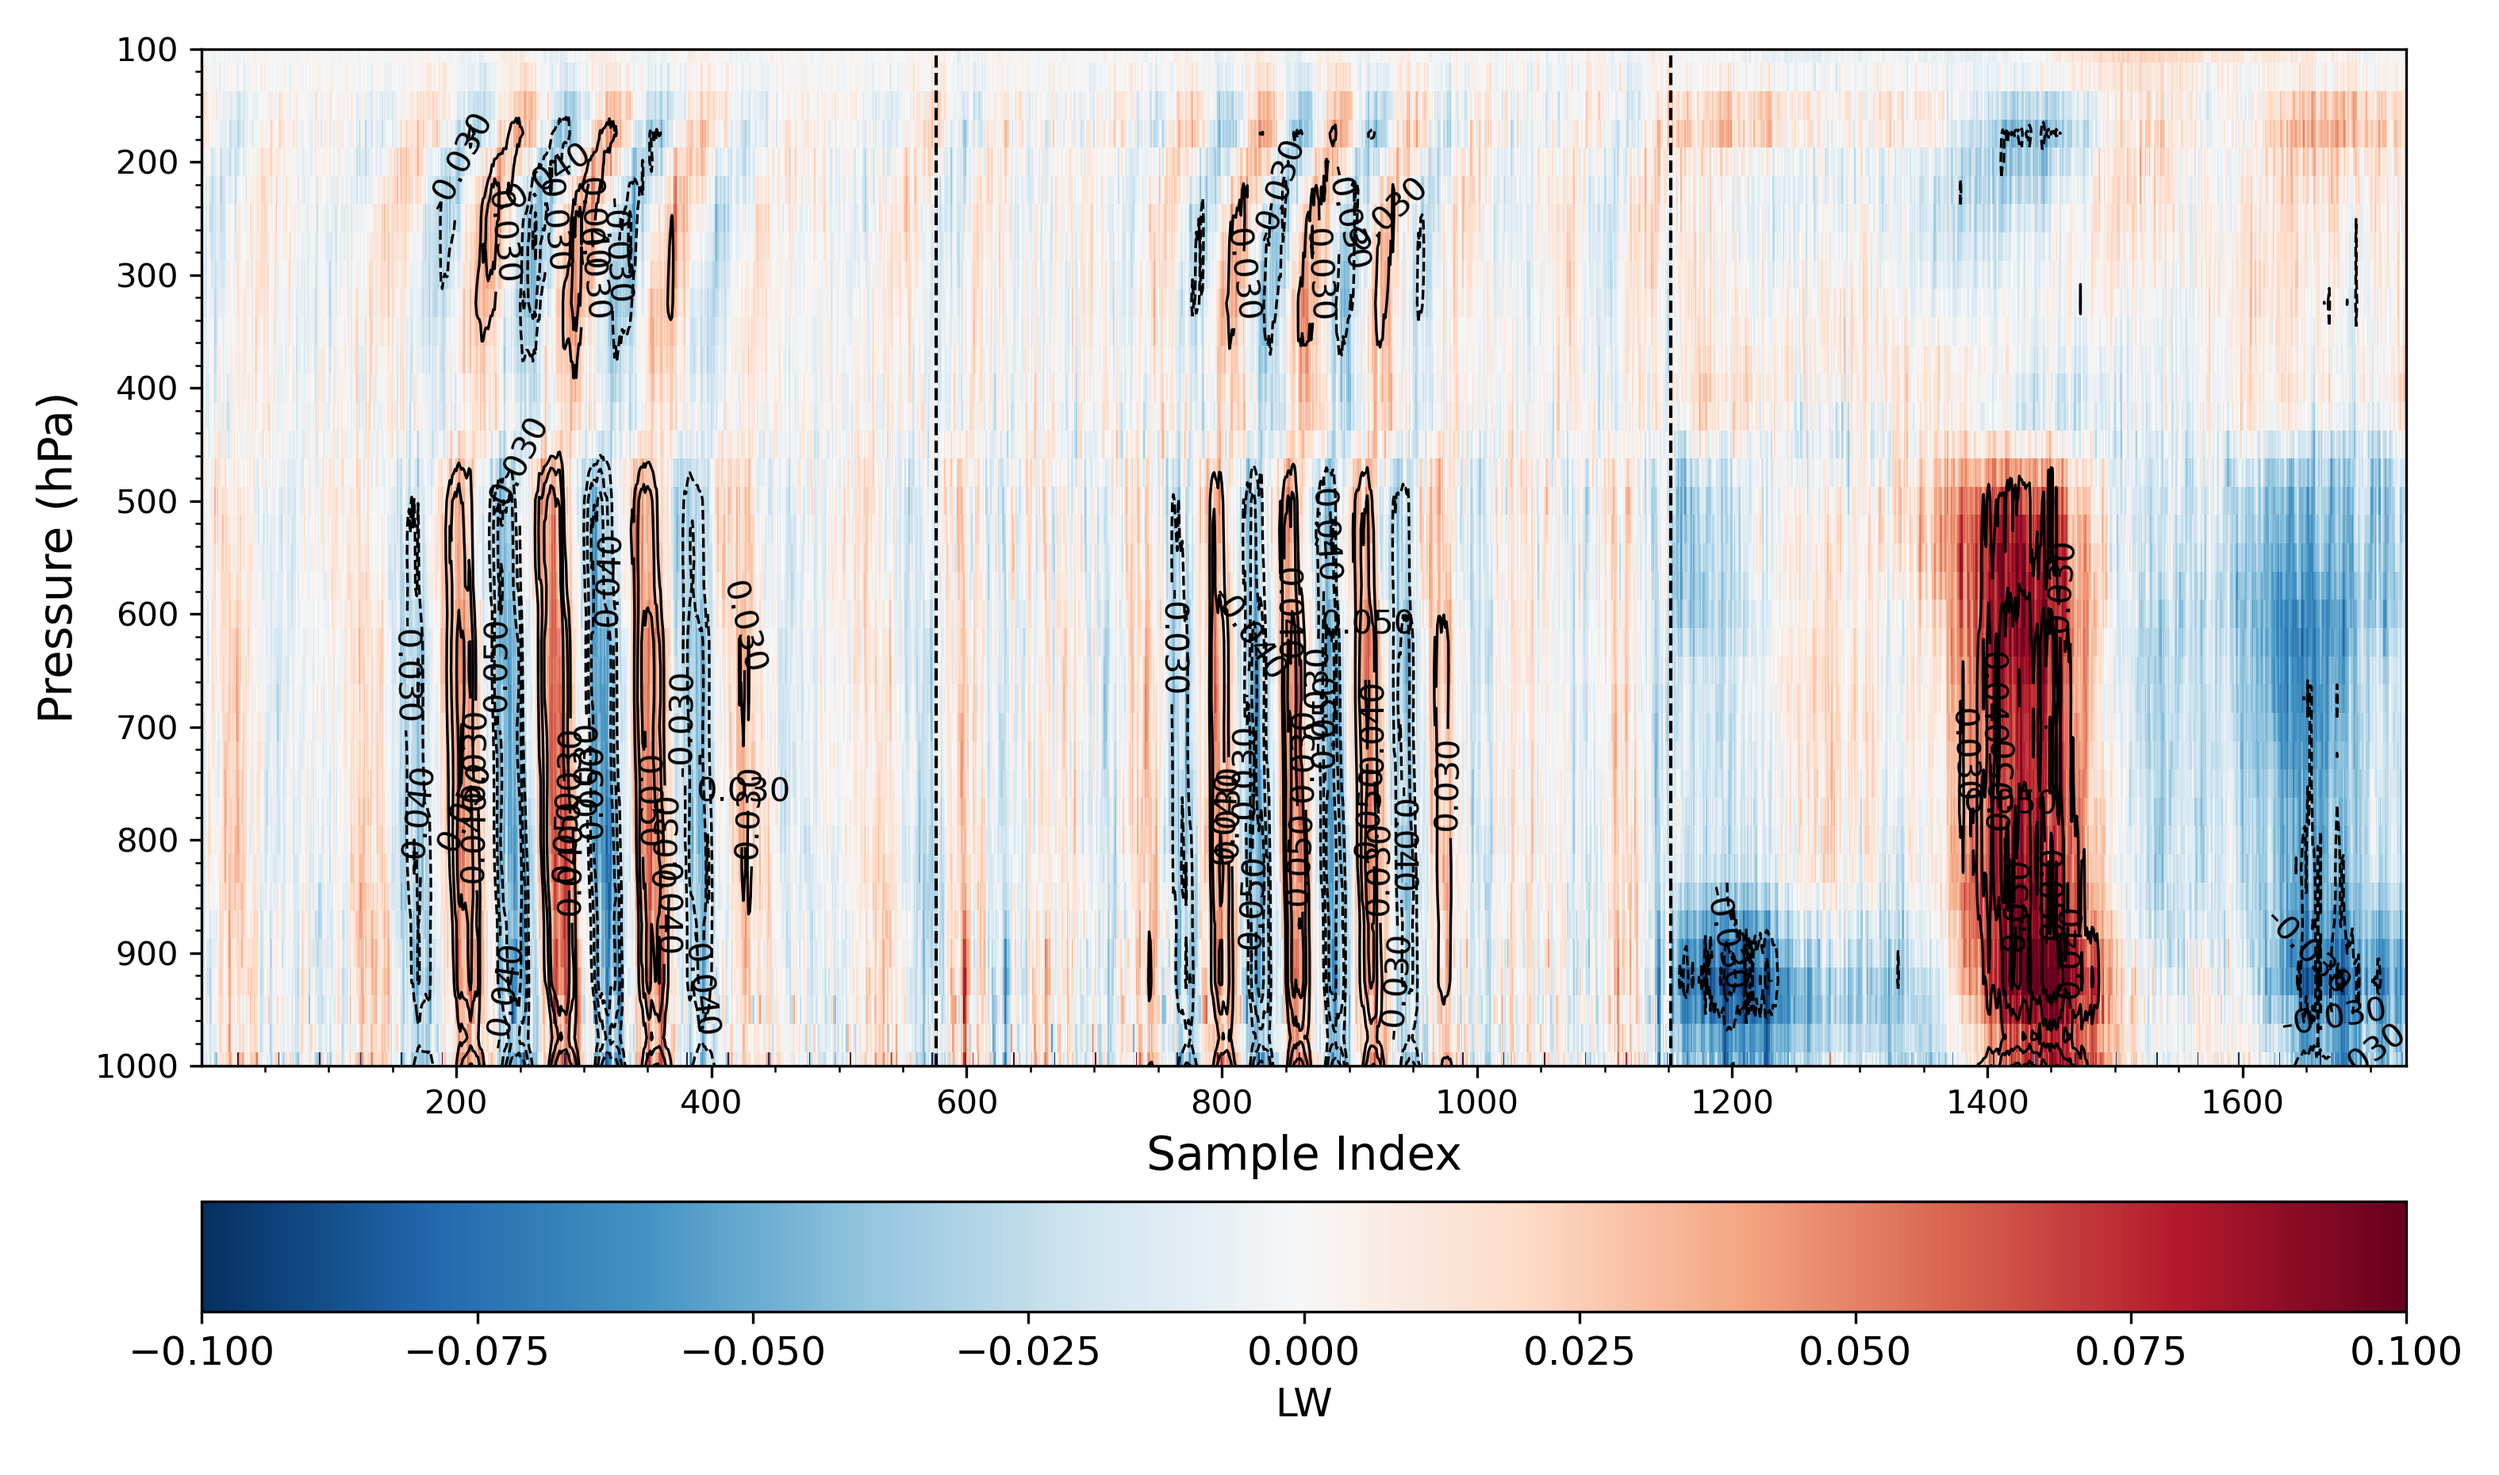
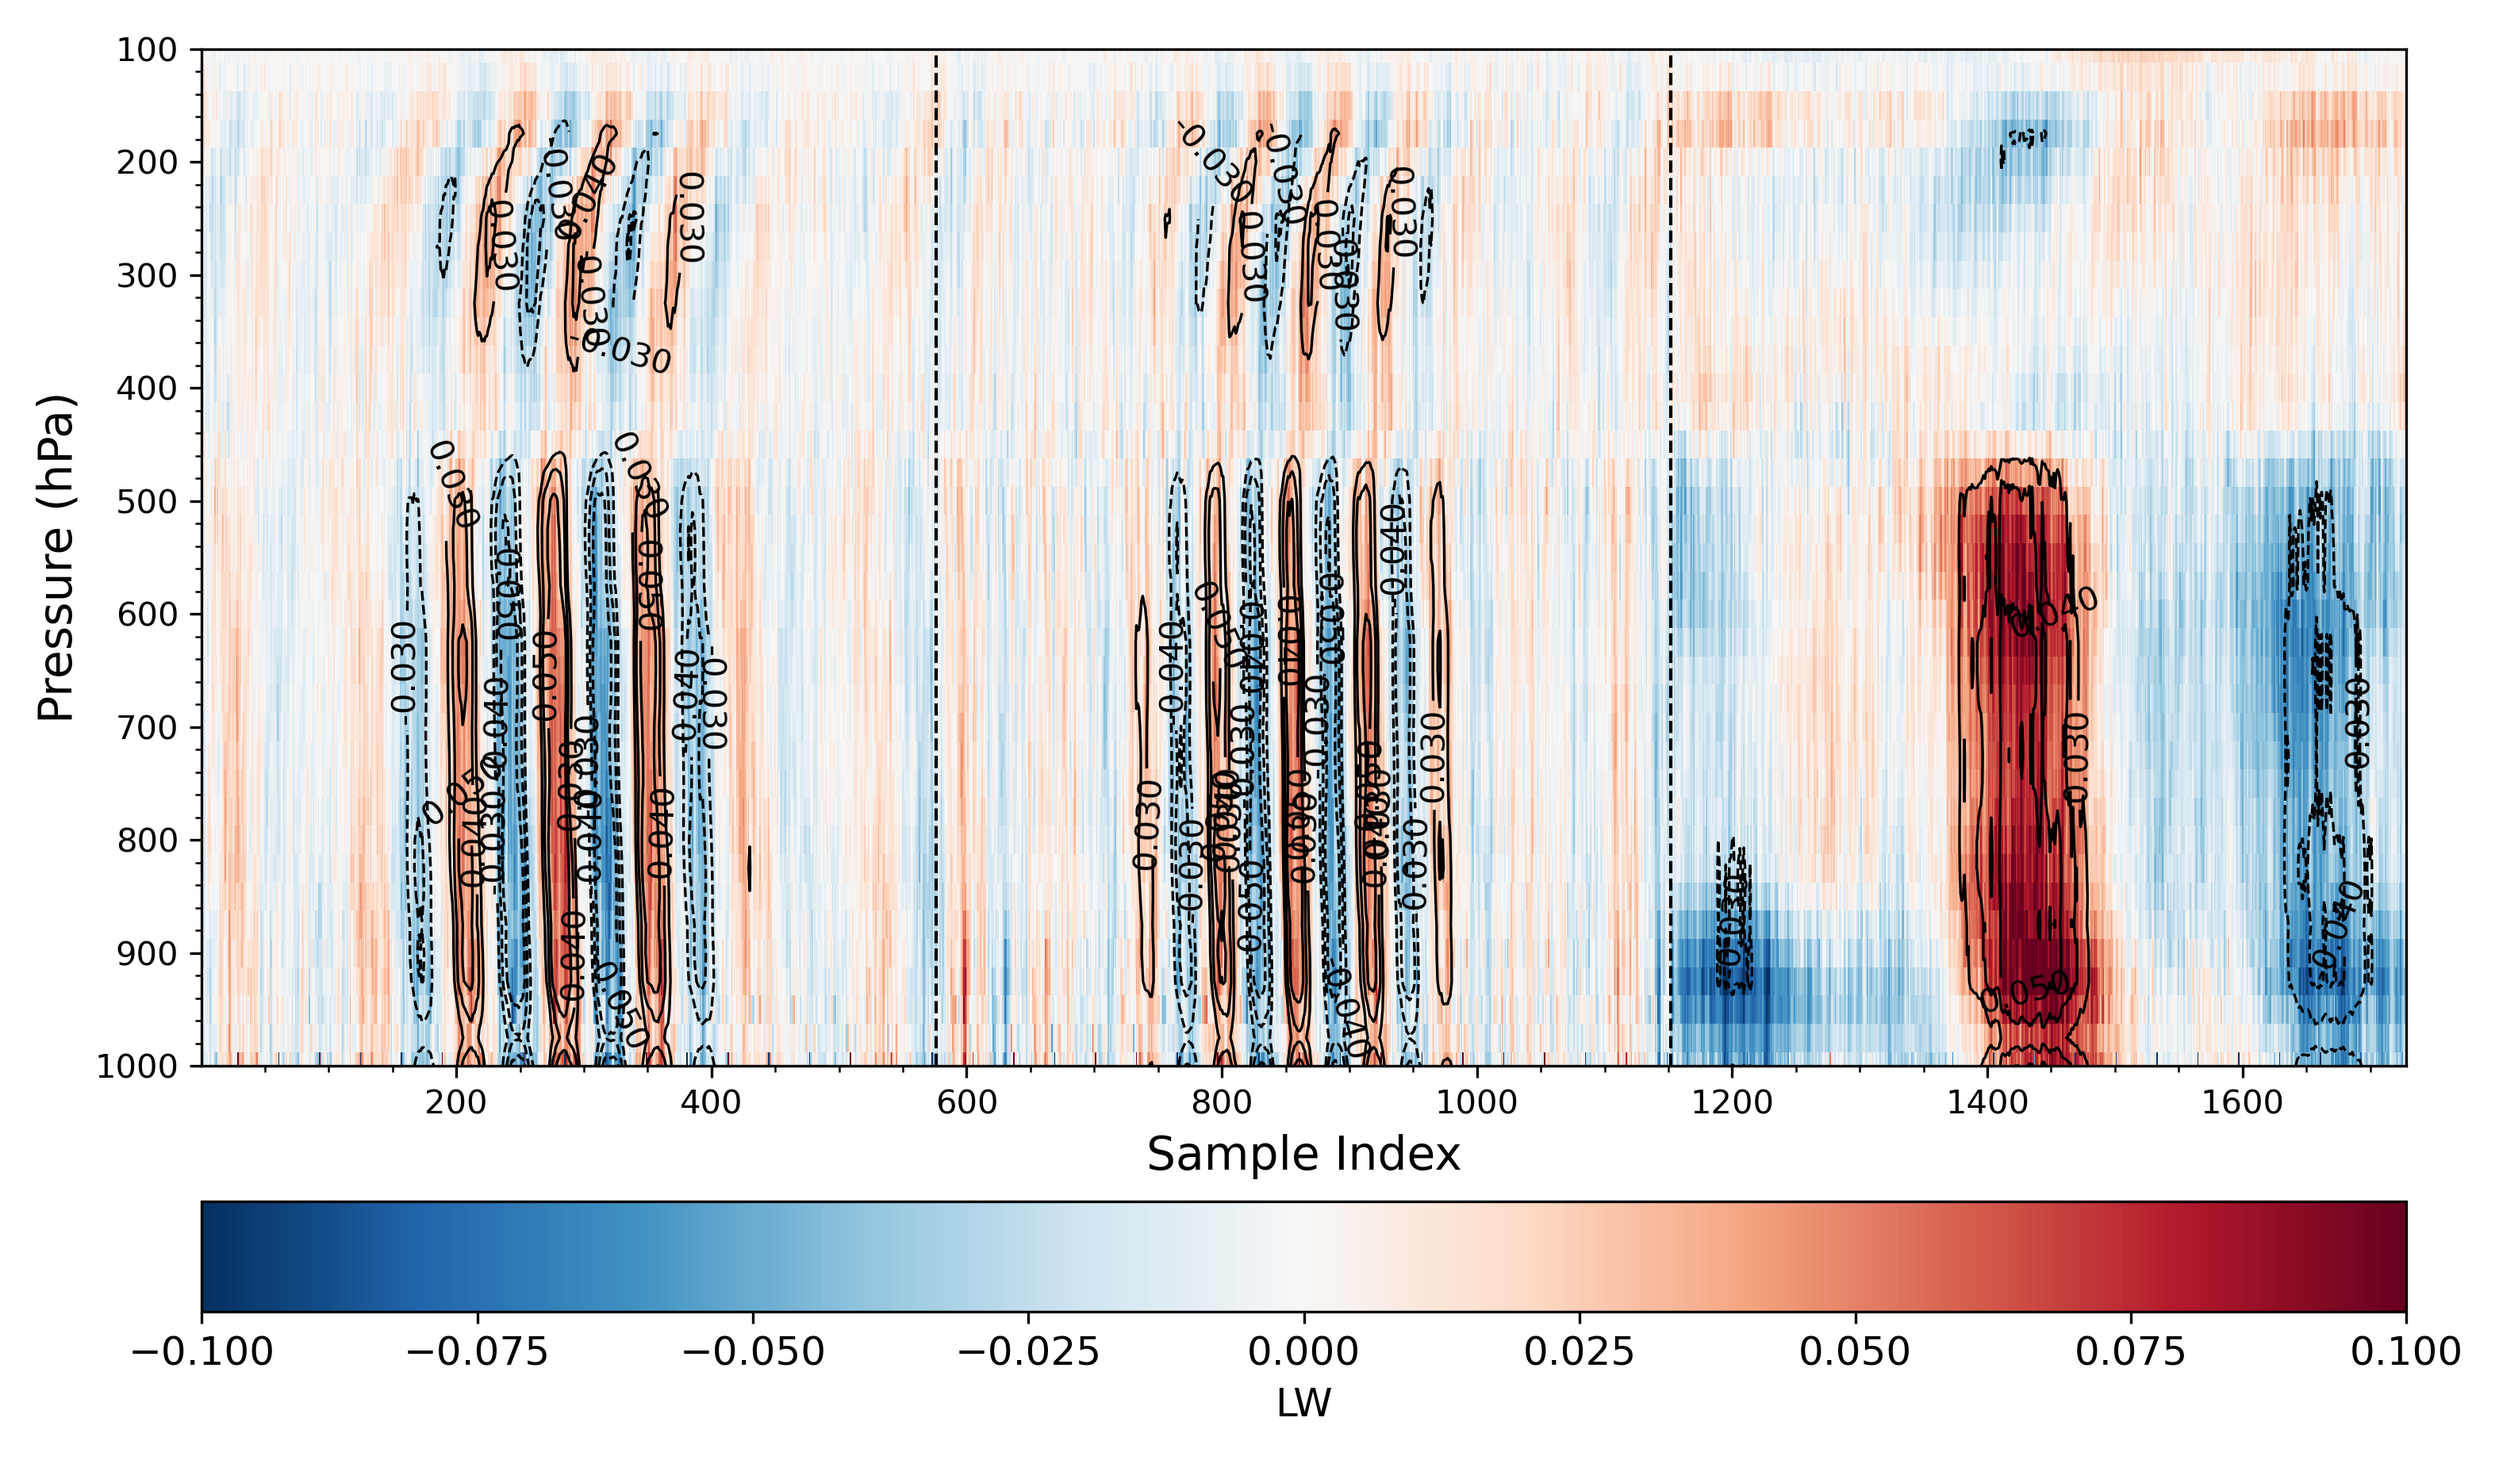
modify: update rigid regression algorithm

diff --git a/Code/ERA5/w_LRF_regression.py b/Code/ERA5/w_LRF_regression.py
@@ -2,6 +2,17 @@
 # This program is to write perform linear regression with ridge regression
 # ========================================================================
 
+import os
+
+# Set the number of threads (e.g., to 1 or 4)
+n_threads = "1"
+
+os.environ["OMP_NUM_THREADS"] = n_threads
+os.environ["MKL_NUM_THREADS"] = n_threads
+os.environ["OPENBLAS_NUM_THREADS"] = n_threads
+os.environ["VECLIB_MAXIMUM_THREADS"] = n_threads
+os.environ["NUMEXPR_NUM_THREADS"] = n_threads
+
 import h5py
 import numpy as np
 import matplotlib.pyplot as plt
@@ -13,10 +24,28 @@ def rmse(
         y_true: np.ndarray,
         y_pred: np.ndarray
 ) -> np.float64:
+
     if y_true.shape != y_pred.shape:
         raise ValueError("Shapes of true and predicted values must match")
 
-    return np.sqrt( np.mean( ( y_true - y_pred )**2 ) )
+    return np.sqrt( np.mean( ( y_true - y_pred )**2 ) ).max()
+
+def ridge_regression(
+        X: np.ndarray,
+        y: np.ndarray,
+        alpha: float
+) -> np.ndarray:
+    
+    assert X.ndim == 2, "X must be a 2D array"
+    assert y.ndim == 2, "y must be a 2D array"
+    assert X.shape[0] == y.shape[0], "Number of samples in X and y must match"
+
+    XtY: np.ndarray = X.T @ y
+    XtX: np.ndarray = X.T @ X + alpha * np.eye( X.shape[1] )
+
+    beta_ridge: np.ndarray = np.linalg.solve( XtX, XtY )
+
+    return beta_ridge
 
 def main() -> None:
     # -------------------------------
@@ -90,29 +119,36 @@ def main() -> None:
     # -------------------------------
     # Perform regression
     # -------------------------------
-    # define a rane of alphas for ridge regression
-    alphas: np.ndarray = np.logspace( -5, 5, 10 )
+    # define a range of alphas for ridge regression
+    alphas: np.ndarray = np.arange( 0.01, 0.02, 0.0001 )
 
-    # regresion lw and w
-    ridge_lw: RidgeCV = RidgeCV( alphas=alphas, scoring='neg_mean_squared_error', alpha_per_target=True )
-    ridge_lw.fit( training["w"], training["lw"] )
+    lw_rmse: list = []
+    sw_rmse: list = []
 
-    lw_lrf: np.ndarray = ridge_lw.coef_ # axis0: target, axis1: features
+    for alpha in alphas:
+        # Acquire regression coefficients
+        lw_lrf = ridge_regression( training["w"], training["lw"], alpha )
+        sw_lrf = ridge_regression( training["w"], training["sw"], alpha )
 
-    # regresion sw and w
-    ridge_sw: RidgeCV = RidgeCV( alphas=alphas, scoring='neg_mean_squared_error', alpha_per_target=True )
-    ridge_sw.fit( training["w"], training["sw"] )
+        # examine rmse
+        lw_pred_tmp = testing["w"] @ lw_lrf
+        sw_pred_tmp = testing["w"] @ sw_lrf
 
-    sw_lrf: np.ndarray = ridge_sw.coef_
+        lw_rmse.append( [ rmse( testing["lw"], lw_pred_tmp ) ] )
+        sw_rmse.append( [ rmse( testing["sw"], sw_pred_tmp ) ] )
+    # print alpha with lowest rmse
+    best_lw_alpha: float = alphas[ np.argmin( lw_rmse ) ]
+    best_sw_alpha: float = alphas[ np.argmin( sw_rmse ) ]
 
-    # -------------------------------
-    # Verify regression
-    # -------------------------------
-    lw_pred: np.ndarray = testing["w"] @ lw_lrf.T
-    sw_pred: np.ndarray = testing["w"] @ sw_lrf.T
+    lw_lrf: np.ndarray = ridge_regression( training["w"], training["lw"], best_lw_alpha )
+    sw_lrf: np.ndarray = ridge_regression( training["w"], training["sw"], best_sw_alpha )
 
-    lw_rmse: np.float64 = rmse( testing["lw"], lw_pred )
-    sw_rmse: np.float64 = rmse( testing["sw"], sw_pred )
+    # best prediction
+    lw_pred: np.ndarray = testing["w"] @ lw_lrf
+    sw_pred: np.ndarray = testing["w"] @ sw_lrf
+
+    print( f"Best LW alpha: {best_lw_alpha}, RMSE: {rmse( testing['lw'], lw_pred )}" )
+    print( f"Best SW alpha: {best_sw_alpha}, RMSE: {rmse( testing['sw'], sw_pred )}" )
 
     # -------------------------------
     # Plot verification results
@@ -164,7 +200,7 @@ def main() -> None:
     lw_pcm = axs[0].pcolormesh(
         np.linspace( 1000, 100, 37 ),
         np.linspace( 1000, 100, 37 ),
-        lw_lrf,
+        -lw_lrf.T,
         cmap="RdBu_r", norm=TwoSlopeNorm( vcenter=0.0 )
     )
     axs[0].plot( [1000, 100], [1000, 100], color="k", linestyle="--", linewidth=1 )
@@ -181,7 +217,7 @@ def main() -> None:
     sw_pcm = axs[1].pcolormesh(
         np.linspace( 1000, 100, 37 ),
         np.linspace( 1000, 100, 37 ),
-        sw_lrf,
+        -sw_lrf.T,
         cmap="RdBu_r", norm=TwoSlopeNorm( vcenter=0.0 )
     )
     axs[1].plot( [1000, 100], [1000, 100], color="k", linestyle="--", linewidth=1 )
@@ -197,6 +233,24 @@ def main() -> None:
     plt.tight_layout()
     plt.savefig( f"/home/b11209013/2025_Research/Obs/Figure/w_lrf.png", dpi=600 )
     plt.close( fig )
+
+    # -------------------------------
+    # Save regression results
+    # -------------------------------
+    OUTPUT_DIR: str = "/work/b11209013/2025_Research/MSI/Rad_Stuff/w_LRF.h5"
+
+    with h5py.File(
+        OUTPUT_DIR,
+        "w"
+    ) as f:
+        f.create_dataset(
+            "lw_lrf",
+            data=lw_lrf
+        )
+        f.create_dataset(
+            "sw_lrf",
+            data=sw_lrf
+        )
 
 if __name__ == "__main__":
     main()
